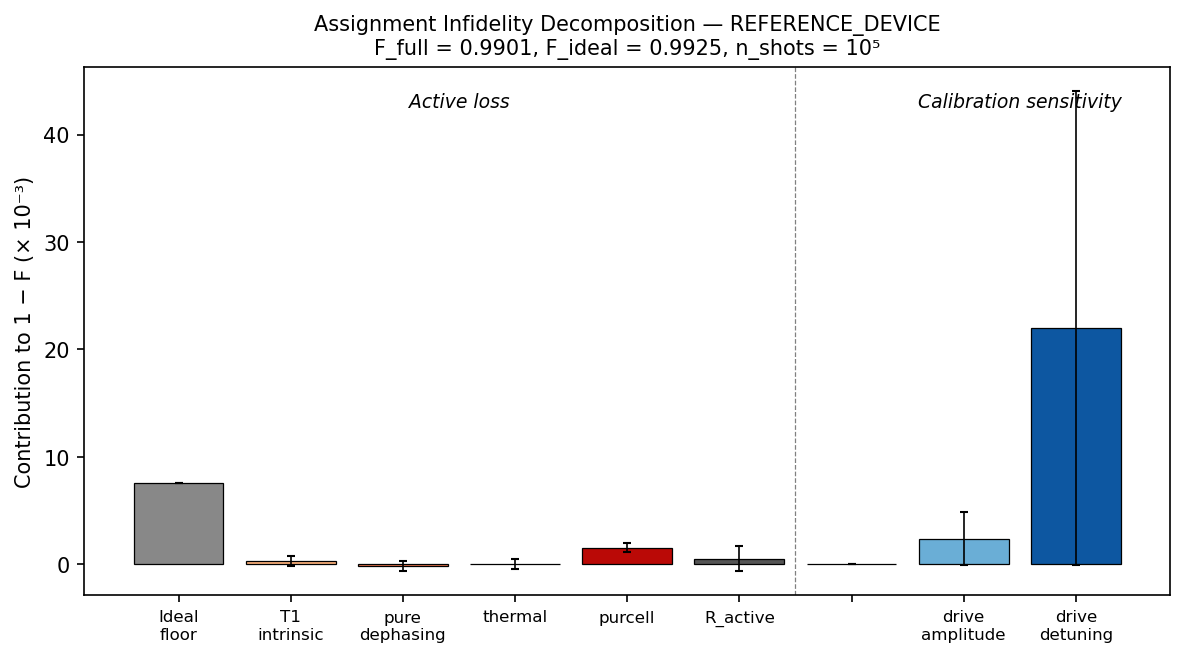
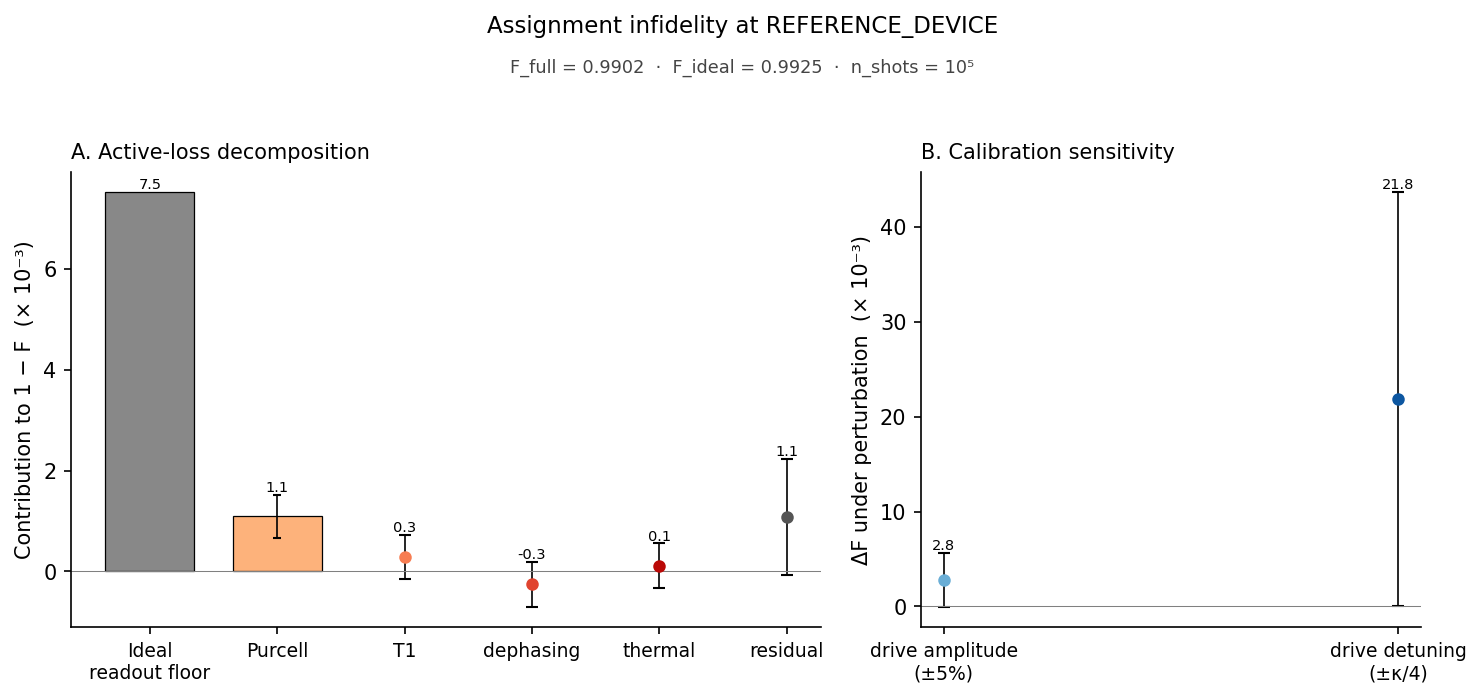
refactor(stage06): Figure 2 two-panel layout + external-reader polish
Semantic fix: the previous single-panel figure mixed two non-comparable
quantities on the same x-axis — active-loss contributions (observed
infidelity that sums into F_ideal − F_full) and calibration-sensitivity
responses (what-if perturbations). The detuning sensitivity at 22e-3
visually dominated the active-loss decomposition at ~2e-3 even though
it is not an observed loss at the operating point.

Layout:
- Two-panel figure, independent y-axes:
    Panel A — Active-loss decomposition (ideal readout floor + 4 channels + residual)
    Panel B — Calibration sensitivity (drive amplitude ±5%, drive detuning ±κ/4)
- Active-loss channels sorted by |ΔF| descending so the dominant
  contribution (Purcell at REFERENCE) sits next to the floor.
- Channels consistent with zero within 1σ render as point-with-errorbar
  rather than filled bars; signed values preserved in fig2_data.yaml.
- Residual uses force_point regardless of |R|/σ_R ratio — avoids the
  over-interpretation that a filled grey bar invites ("model is missing
  something") when the residual is really additivity-identity noise.
- Perturbation sizes baked into Panel B x-labels (±5%, ±κ/4) so bars
  are self-interpretable without the caption.
- Numeric annotations above each bar/point in units of 10⁻³ for
  recruiter-readable quick scan.

Presentation:
- Main title "Assignment infidelity at REFERENCE_DEVICE" (simpler).
- Subtitle under the main title: F_full, F_ideal, n_shots — anchoring
[…]

diff --git a/06_Dispersive_Readout/scripts/fig2_error_budget.py b/06_Dispersive_Readout/scripts/fig2_error_budget.py
@@ -1,14 +1,23 @@
-"""Render Figure 2 (error budget waterfall) + export YAML data.
+"""Render Figure 2 (two-panel error budget + calibration sensitivity).
 
-Two candidate layouts are rendered side-by-side as separate PNGs during
-Task 11; this Task 10 version produces Candidate B (classic waterfall) as
-the default and the YAML data export. Uses n_shots=100_000 per spec
-amendment 8 to recover the physics-dominated regime. Run from repo root:
+Panel A: active-loss decomposition at the reference operating point (ideal
+floor, four decoherence channels sorted by magnitude, residual). Bars for
+channels that are 1σ-resolvable above zero; point-with-errorbar for
+near-zero channels so the figure does not imply a negative observed loss.
+
+Panel B: calibration sensitivity under named perturbations (±5% drive
+amplitude, ±κ/4 drive detuning). Independent y-axis because these bars
+are not additive with Panel A — they answer a different question
+(robustness derivative, not budget component).
+
+Uses n_shots=100_000 per amendment 8 to recover the physics-dominated
+regime. Amendment 9 (shared baseline + signed ΔF + shot-noise err)
+applied. Run from repo root:
 
     python 06_Dispersive_Readout/scripts/fig2_error_budget.py
 
 Outputs:
-  06_Dispersive_Readout/figures/fig2_error_budget.png (150 DPI, ~1200 px)
+  06_Dispersive_Readout/figures/fig2_error_budget.png (150 DPI)
   06_Dispersive_Readout/figures/fig2_data.yaml (ErrorBudget serialized)
 """
 from __future__ import annotations
@@ -30,138 +39,167 @@ REPO_ROOT = Path(__file__).resolve().parents[2]
 FIG_DIR = REPO_ROOT / "06_Dispersive_Readout" / "figures"
 
 
-def _render_candidate_B(budget: ErrorBudget, path: Path) -> None:
-    """Classic waterfall: Ideal floor | active loss stack | R_active | === | cal sens."""
+# Labels for calibration-sensitivity bars include the perturbation size
+# so the reader does not have to read the caption to interpret them.
+_CALIB_PERTURBATION_LABEL: dict[str, str] = {
+    "drive_amplitude": "drive amplitude\n(±5%)",
+    "drive_detuning":  "drive detuning\n(±κ/4)",
+}
+
+_ACTIVE_CHANNEL_LABEL: dict[str, str] = {
+    "T1_intrinsic":   "T1",
+    "pure_dephasing": "dephasing",
+    "thermal":        "thermal",
+    "purcell":        "Purcell",
+}
+
+
+def _bar_or_point(
+    ax, x, value_milli, err_milli, color,
+    bar_width=0.7, force_point=False, annotate=True,
+):
+    """Filled bar if value > 1σ above zero; else point-with-errorbar.
+
+    Prevents the final figure from showing filled negative bars — those
+    confuse a reader into treating them as real negative losses, when
+    they are shot-noise excursions around a channel ΔF ≈ 0. Signed
+    values remain in the YAML and the test harness.
+
+    force_point=True renders as point-with-errorbar regardless of the
+    value/uncertainty ratio. Used for the residual bar, where a filled
+    rectangle invites over-interpretation ("model is missing something")
+    even when |R| sits within the shot-noise propagation of the identity.
+    """
+    is_bar = (not force_point) and (value_milli > err_milli) and (value_milli > 0)
+    if is_bar:
+        ax.bar(
+            x, value_milli, width=bar_width,
+            color=color, edgecolor="black", linewidth=0.6,
+        )
+        if err_milli > 0:
+            ax.errorbar(
+                x, value_milli, yerr=err_milli, fmt="none",
+                ecolor="black", capsize=2, linewidth=0.8,
+            )
+    else:
+        # Near-zero, negative, or force_point: point-with-errorbar, no fill.
+        ax.errorbar(
+            x, value_milli, yerr=err_milli if err_milli > 0 else None,
+            fmt="o", color=color, markersize=5,
+            ecolor="black", capsize=3, linewidth=0.8,
+        )
+
+    if annotate:
+        # Place the numeric annotation just above the upper error-bar cap so
+        # even negative values get a readable label. Format at 0.1 resolution
+        # which is appropriate for ×10⁻³ scale where channels sit at 0.1–30.
+        top = value_milli + err_milli if err_milli > 0 else value_milli
+        text = f"{value_milli:+.1f}" if value_milli < 0 else f"{value_milli:.1f}"
+        ax.text(
+            x, top, text,
+            ha="center", va="bottom", fontsize=7,
+            clip_on=False,
+        )
+
+
+def _render_two_panel(budget: ErrorBudget, path: Path) -> None:
+    """Two-panel figure: Panel A active loss, Panel B calibration sensitivity.
+
+    Panel A is a classic-waterfall ordering: ideal floor (leftmost) →
+    active channels sorted by |ΔF| descending → residual (rightmost).
+    Panel B lists calibration sensitivities with explicit perturbation
+    sizes on the x-axis labels.
+    """
+    # ---- Panel A data ----
     active = budget.active_loss_channels
-    calib = budget.calibration_channels
+    # Sort by |ΔF| descending so the dominant loss sits next to the ideal floor.
+    active_sorted = sorted(active, key=lambda c: abs(c.delta_F), reverse=True)
     ideal_floor = 1.0 - budget.F_ideal
+    warm = plt.cm.OrRd(np.linspace(0.4, 0.85, len(active_sorted)))
 
-    # Bars left-to-right
-    labels = (
-        ["Ideal\nfloor"]
-        + [c.name.replace("_", "\n") for c in active]
-        + ["R_active"]
-        + [""]  # separator
-        + [c.name.replace("_", "\n") for c in calib]
-    )
-    values = (
-        [ideal_floor]
-        + [c.delta_F for c in active]
-        + [budget.residual_active]
-        + [0.0]  # separator (invisible)
-        + [c.delta_F for c in calib]
-    )
-    errors = (
-        [0.0]
-        + [c.delta_F_uncertainty for c in active]
-        + [budget.residual_active_uncertainty]
-        + [0.0]
-        + [c.delta_F_uncertainty for c in calib]
-    )
-    # Scale to 10^-3 units for readability
-    values_milli = [v * 1e3 for v in values]
-    errors_milli = [e * 1e3 for e in errors]
-
-    # Color palette
-    warm = plt.cm.OrRd(np.linspace(0.4, 0.85, len(active)))
-    cool = plt.cm.Blues(np.linspace(0.5, 0.85, len(calib)))
-    colors = (
-        ["#888888"]                   # ideal floor grey
-        + list(warm)                   # active loss warm
-        + ["#555555"]                  # residual dark grey
-        + ["none"]                     # separator
-        + list(cool)                   # cal sens cool
-    )
-
-    fig, ax = plt.subplots(figsize=(8, 4.5), dpi=150)
-    x = np.arange(len(labels))
-    ax.bar(x, values_milli, color=colors, edgecolor="black", linewidth=0.6)
-    ax.errorbar(x, values_milli, yerr=errors_milli, fmt="none",
-                ecolor="black", capsize=2, linewidth=0.8)
-
-    ax.set_xticks(x)
-    ax.set_xticklabels(labels, fontsize=8)
-    ax.set_ylabel("Contribution to 1 − F (× 10⁻³)", fontsize=10)
-    ax.set_title(
-        f"Assignment Infidelity Decomposition — REFERENCE_DEVICE\n"
-        f"F_full = {budget.F_full:.4f}, F_ideal = {budget.F_ideal:.4f}, "
-        f"n_shots = 10⁵",
-        fontsize=10,
-    )
-    # Group separator
-    ax.axvline(x=len(active) + 1.5, color="gray", linestyle="--", linewidth=0.6)
-    # Group labels
-    ax.text(1 + len(active) / 2 - 0.5, ax.get_ylim()[1] * 0.92, "Active loss",
-            ha="center", fontsize=9, style="italic")
-    ax.text(len(active) + 3 + len(calib) / 2 - 0.5, ax.get_ylim()[1] * 0.92,
-            "Calibration sensitivity", ha="center", fontsize=9, style="italic")
-
-    fig.tight_layout()
-    fig.savefig(path, dpi=150, bbox_inches="tight")
-    plt.close(fig)
-
-
-def _render_candidate_A(budget: ErrorBudget, path: Path) -> None:
-    """Author-first: Total infidelity | active loss | cal sens | R_active."""
-    active = budget.active_loss_channels
+    # ---- Panel B data ----
     calib = budget.calibration_channels
+    cool = plt.cm.Blues(np.linspace(0.5, 0.85, max(len(calib), 1)))
 
-    labels = (
-        ["Total\ninfidelity"]
-        + [c.name.replace("_", "\n") for c in active]
-        + [""]  # separator
-        + [c.name.replace("_", "\n") for c in calib]
-        + ["R_active"]
+    # ---- Layout ----
+    fig, (ax_A, ax_B) = plt.subplots(
+        1, 2,
+        figsize=(10.0, 4.5), dpi=150,
+        gridspec_kw={"width_ratios": [3, 2]},
     )
-    values = (
-        [budget.total_infidelity]
-        + [c.delta_F for c in active]
-        + [0.0]
-        + [c.delta_F for c in calib]
+    fig.patch.set_facecolor("white")
+    for ax in (ax_A, ax_B):
+        ax.set_facecolor("white")
+
+    # ---- Panel A render ----
+    panel_A_labels = (
+        ["Ideal\nreadout floor"]
+        + [_ACTIVE_CHANNEL_LABEL[c.name] for c in active_sorted]
+        + ["residual"]
+    )
+    panel_A_values = (
+        [ideal_floor]
+        + [c.delta_F for c in active_sorted]
         + [budget.residual_active]
     )
-    errors = (
+    panel_A_errors = (
         [0.0]
-        + [c.delta_F_uncertainty for c in active]
-        + [0.0]
-        + [c.delta_F_uncertainty for c in calib]
+        + [c.delta_F_uncertainty for c in active_sorted]
         + [budget.residual_active_uncertainty]
     )
-    values_milli = [v * 1e3 for v in values]
-    errors_milli = [e * 1e3 for e in errors]
-
-    warm = plt.cm.OrRd(np.linspace(0.4, 0.85, len(active)))
-    cool = plt.cm.Blues(np.linspace(0.5, 0.85, len(calib)))
-    colors = (
-        ["#333333"]                   # total infidelity anchor
-        + list(warm)
-        + ["none"]                     # separator
-        + list(cool)
-        + ["#555555"]                  # residual
+    panel_A_colors = (
+        ["#888888"]              # ideal floor — grey
+        + list(warm)             # active-loss channels — warm
+        + ["#555555"]            # residual — darker grey
     )
 
-    fig, ax = plt.subplots(figsize=(8, 4.5), dpi=150)
-    x = np.arange(len(labels))
-    ax.bar(x, values_milli, color=colors, edgecolor="black", linewidth=0.6)
-    ax.errorbar(x, values_milli, yerr=errors_milli, fmt="none",
-                ecolor="black", capsize=2, linewidth=0.8)
+    n_entries = len(panel_A_values)
+    for i, (val, err, col) in enumerate(zip(panel_A_values, panel_A_errors, panel_A_colors)):
+        # Last entry is the residual: always render as point-with-errorbar,
+        # regardless of whether |R| happens to exceed σ_R on a given run.
+        is_residual = (i == n_entries - 1)
+        _bar_or_point(
+            ax_A, i, val * 1e3, err * 1e3, col,
+            force_point=is_residual,
+        )
 
-    # Reference line at ideal floor
-    ideal_milli = (1.0 - budget.F_ideal) * 1e3
-    ax.axhline(y=ideal_milli, color="grey", linestyle=":", linewidth=0.8)
-    ax.text(len(labels) - 0.5, ideal_milli, f" Ideal floor",
-            va="center", fontsize=8, color="grey")
+    ax_A.axhline(0.0, color="gray", linewidth=0.5)
+    ax_A.set_xticks(np.arange(len(panel_A_labels)))
+    ax_A.set_xticklabels(panel_A_labels, fontsize=9)
+    ax_A.set_ylabel("Contribution to 1 − F  (× 10⁻³)", fontsize=10)
+    ax_A.set_title("A. Active-loss decomposition", fontsize=10, loc="left")
+    ax_A.spines["top"].set_visible(False)
+    ax_A.spines["right"].set_visible(False)
 
-    ax.set_xticks(x)
-    ax.set_xticklabels(labels, fontsize=8)
-    ax.set_ylabel("Contribution to 1 − F (× 10⁻³)", fontsize=10)
-    ax.set_title(
-        f"Candidate A — Assignment Infidelity Decomposition\n"
-        f"F_full = {budget.F_full:.4f}, F_ideal = {budget.F_ideal:.4f}",
-        fontsize=10,
+    # ---- Panel B render ----
+    panel_B_labels = [_CALIB_PERTURBATION_LABEL[c.name] for c in calib]
+    panel_B_values = [c.delta_F for c in calib]
+    panel_B_errors = [c.delta_F_uncertainty for c in calib]
+
+    for i, (val, err, col) in enumerate(zip(panel_B_values, panel_B_errors, cool)):
+        _bar_or_point(ax_B, i, val * 1e3, err * 1e3, col)
+
+    ax_B.axhline(0.0, color="gray", linewidth=0.5)
+    ax_B.set_xticks(np.arange(len(panel_B_labels)))
+    ax_B.set_xticklabels(panel_B_labels, fontsize=9)
+    ax_B.set_ylabel("ΔF under perturbation  (× 10⁻³)", fontsize=10)
+    ax_B.set_title("B. Calibration sensitivity", fontsize=10, loc="left")
+    ax_B.spines["top"].set_visible(False)
+    ax_B.spines["right"].set_visible(False)
+
+    fig.suptitle(
+        "Assignment infidelity at REFERENCE_DEVICE",
+        fontsize=11, y=1.02,
     )
-    fig.tight_layout()
-    fig.savefig(path, dpi=150, bbox_inches="tight")
+    # Small subtitle under the main title with the anchoring numbers.
+    fig.text(
+        0.5, 0.955,
+        f"F_full = {budget.F_full:.4f}  ·  F_ideal = {budget.F_ideal:.4f}  ·  "
+        f"n_shots = 10⁵",
+        ha="center", va="top", fontsize=8.5, color="#444444",
+    )
+    fig.tight_layout(rect=(0, 0, 1, 0.93))
+    fig.savefig(path, dpi=150, bbox_inches="tight", facecolor="white")
     plt.close(fig)
 
 
@@ -174,7 +212,7 @@ def _compute_n_bar_over_n_crit(op) -> tuple[float, float, float]:
     """
     from dispersive_readout.physics import simulate_readout
     from dispersive_readout.physics.transmon import (
-        charge_operator_matrix_elements, diagonalize_transmon,
+        diagonalize_transmon,
     )
 
     device = op.device
@@ -185,7 +223,6 @@ def _compute_n_bar_over_n_crit(op) -> tuple[float, float, float]:
     delta_10 = energies[1] - energies[0] - omega_r
     n_crit = (delta_10 / (2.0 * g)) ** 2
 
-    # Peak photon number from a |1> baseline sim
     r = simulate_readout(device, op.drive, initial_qubit_state=1)
     n_bar_peak = float(r.photon_number.max())
 
@@ -200,33 +237,23 @@ def main() -> None:
     print(f"  ε₀ = {op.drive.amplitude:.3e} rad/s "
           f"(= {op.drive.amplitude / (2 * np.pi):.3e} Hz)")
 
-    print("Computing full error budget (14 sims at n_shots=1e5, ~15 min)...")
+    print("Computing full error budget (14 sims at n_shots=1e5, ~3 min)...")
     budget = compute_full_error_budget(op)
-    print(f"  F_full = {budget.F_full:.5f}")
+    print(f"  F_full  = {budget.F_full:.5f}")
     print(f"  F_ideal = {budget.F_ideal:.5f}")
     print(f"  R_active = {budget.residual_active:.5f} "
           f"± {budget.residual_active_uncertainty:.5f}")
     for c in budget.channels:
-        print(f"  {c.name:20s}  ΔF = {c.delta_F:.5f} ± {c.delta_F_uncertainty:.5f}")
+        print(f"  {c.name:20s}  ΔF = {c.delta_F:+.5f} ± {c.delta_F_uncertainty:.5f}")
 
     n_bar, n_crit, ratio = _compute_n_bar_over_n_crit(op)
     print(f"  n̄_peak = {n_bar:.2f}, n_crit = {n_crit:.1f}, n̄/n_crit = {ratio:.3f}")
 
+    png_path = FIG_DIR / "fig2_error_budget.png"
     yaml_path = FIG_DIR / "fig2_data.yaml"
-    png_B = FIG_DIR / "fig2_error_budget_candidate_B.png"
-    png_A = FIG_DIR / "fig2_error_budget_candidate_A.png"
-    _render_candidate_B(budget, png_B)
-    _render_candidate_A(budget, png_A)
+    _render_two_panel(budget, png_path)
     export_budget_to_yaml(budget, yaml_path)
-
-    # Winner → canonical Figure 2. Candidate B chosen per spec §7.1 default
-    # (classic waterfall: left=ideal, contributions stack rightward to
-    # measured total; calibration sensitivity as visually-separated group).
-    import shutil
-    winner_path = FIG_DIR / "fig2_error_budget.png"
-    shutil.copy2(png_B, winner_path)
-    print(f"Wrote {png_B}, {png_A}, {yaml_path}")
-    print(f"Winner (Candidate B) → {winner_path}")
+    print(f"Wrote {png_path} and {yaml_path}")
 
 
 if __name__ == "__main__":

diff --git a/06_Dispersive_Readout/FIGURE_2_CAPTION.md b/06_Dispersive_Readout/FIGURE_2_CAPTION.md
@@ -1,9 +1,9 @@
-# Figure 2 — Error Budget Decomposition
+# Figure 2 — Active-Loss Budget and Calibration Sensitivity
 
 ## Caption
 
-**Figure 2.** Assignment infidelity decomposition at REFERENCE_DEVICE (500 ns readout, F_full ≈ 0.99, 10⁵ shots). **Active loss** (left, 4 bars): T1, pure dephasing, thermal, Purcell — each measured by turning off its collapse operator. **Calibration sensitivity** (right, 2 bars): F loss under ±5 % amplitude / ±κ/4 detuning perturbations about the nominal operating point. The grey residual bar reports cross-channel interactions within the active-loss group and satisfies the additivity identity Σ ΔF_c + R = (F_ideal − F_full).
+**Figure 2.** Assignment infidelity at REFERENCE_DEVICE, 500 ns readout, F_full ≈ 0.990, n_shots = 10⁵. **Panel A — Active-loss decomposition.** The ideal readout floor (1 − F_ideal ≈ 7.5 × 10⁻³) is the finite-overlap discrimination cost that remains after all four decoherence channels are disabled — i.e., the SNR limit of dispersive readout at this pulse and integration window without any decoherence. The four active-loss bars show the marginal cost of each channel at baseline, sorted by magnitude: Purcell is the dominant contribution at g/Δ ≈ 0.044; T1, thermal, and pure dephasing are all at the shot-noise floor (~10⁻³) and are presented with their uncertainties. Bars appear for channels above 1σ; channels consistent with zero render as points with error bars. The grey "residual" point is R_active ≡ (F_ideal − F_full) − Σ ΔF_c and measures cross-channel interaction; it is rendered as a point-with-errorbar rather than a filled bar because it is consistent with zero within the shot-noise propagation of the identity. **Panel B — Calibration sensitivity.** F loss under ±5 % drive-amplitude and ±κ/4 drive-detuning perturbations about the calibrated operating point. Detuning sensitivity is the largest calibration lever at this operating point, though the estimate is asymmetry- and shot-noise-limited — the error bar extending to ~2× the central value reflects this, not a 100 % uncertainty on the underlying physics. Panel B bars answer a different question (robustness under named perturbations) and have their own y-axis; they are **not** summable with Panel A and do not contribute to the active-loss residual identity.
 
 ## Methods note
 
-**Methods note (Figure 2).** The waterfall decomposes assignment infidelity within the scope of the 2nd-order Schrieffer-Wolff dispersive-frame Hamiltonian used throughout Stage 06. Two physics boundaries are relevant: the dispersive approximation itself is validated by unit test V2 to ≤ 2 % at REFERENCE, producing a fidelity residual of O(10⁻⁴) below the bar-visibility threshold; measurement-induced ionization (Shillito 2022) requires an intra-resonator photon count of n̄ > n_crit, where the reference operating point sits at n̄/n_crit ≈ 0.062, well below onset. Residual |1⟩→|2⟩ occupation P(|2⟩) ≈ 3 × 10⁻⁴ is entirely thermal and is attributed to the thermal channel. The operating point ε₀ is calibrated analytically from the dispersive-regime steady-state SNR formula (§2.3) and cross-verified against simulation within shot-noise tolerance. Active-loss and calibration-sensitivity bars answer two conceptually distinct questions — loss contribution at the nominal point versus robustness derivative under named perturbations — and are presented as separate groups to make this distinction explicit; only the active-loss group carries a residual identity and a B2 additivity validation test.
+**Methods note (Figure 2).** The decomposition is local to the reference operating point (ε₀ calibrated to F_full ≈ 0.99 on the low-amplitude branch, 500 ns pulse, 50–500 ns integration window) and is computed within the scope of the 2nd-order Schrieffer-Wolff dispersive-frame Hamiltonian. Two physics boundaries are relevant: the dispersive approximation itself is validated by unit test V2 to ≤ 2 % at REFERENCE (fidelity residual O(10⁻⁴), below bar-visibility); measurement-induced ionization (Shillito 2022) requires intra-resonator photon count n̄ > n_crit, with the reference operating point at n̄/n_crit ≈ 0.062, well below onset. Residual |1⟩→|2⟩ occupation P(|2⟩) ≈ 3 × 10⁻⁴ is entirely thermal and is attributed to the thermal channel. The operating point ε₀ is calibrated analytically from the dispersive-regime steady-state SNR formula (§2.3) and cross-verified against simulation within shot-noise tolerance. All 14 simulations share a single F_full baseline sample so per-channel ΔFs and the residual reference the same anchor (amendment 9a); ΔF is stored signed (amendment 9b); calibration-sensitivity uncertainty combines ± asymmetry with shot-noise SE of the mean-of-absolute estimator in quadrature (amendment 9c). **Caveats.** (i) This is a local operating-point decomposition; contributions change if ε₀, readout duration, or device parameters are moved. (ii) Calibration-sensitivity bars are not additive with active-loss bars and do not enter the ΔF + R identity. (iii) Several active-loss channels (pure dephasing, thermal, and at times T1 at the reference T1 = 30 μs, 500 ns readout) sit at or below the shot-noise floor; those bars are rendered as points with error bars consistent with zero rather than as filled negative bars, with signed values preserved in `fig2_data.yaml` for downstream analysis.
